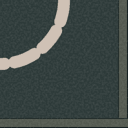
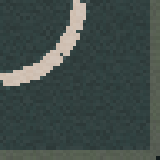
feat(render): wire studio tilesets into the game — rails, crossings, new roads and hydro
Approved studio sprites go live:

- Roads: all 15 variants replaced with the studio set (160 px, measured
  match to the previous art's language — black-top, bold dashes, shoulder
  edges, T-capped dead ends).
- Hydro lines: `power-line-vertical/horizontal` replaced with the studio
  redesign (wood pole billboard, crossarm-attached sagging wires).
- Rails: first-ever rail sprites — 15 connectivity variants under
  `assets/tiles/rails/`, loaded via a `rail` atlas section that reuses the
  road `RoadVariant` bitmask machinery, plus a `pickRailTexture` mirroring
  the road picker. `TileKind.Rail` previously rendered as a flat colour.
- Level crossings: tiles carrying both rail and road (`Rail+roadUnderlay`
  or `Road+railUnderlay`) draw the crossing sprite, oriented by the rail
  axis from rail connectivity.

Verified in the running game (Vite dev + browser automation): placed a
rail line, crossed it with a road — correct variants, seamless joins, and
the crossing tile rendered with the right orientation. `tsc --noEmit`
clean; all 266 tests pass.

diff --git a/app/src/rendering/tileAtlas.ts b/app/src/rendering/tileAtlas.ts
@@ -22,6 +22,8 @@ export type RoadVariant =
 export interface TileTextures {
   tiles: Partial<Record<TileKind, PIXI.Texture>>;
   road: Partial<Record<RoadVariant, PIXI.Texture>>;
+  rail: Partial<Record<RoadVariant, PIXI.Texture>>;
+  railCrossing: Partial<Record<'ns' | 'ew', PIXI.Texture>>;
   powerPlant: Partial<Record<PowerPlantType, PIXI.Texture>>;
   powerLine: Partial<Record<'north' | 'east' | 'south' | 'west', PIXI.Texture>>;
   residentialHouses: PIXI.Texture[];
@@ -62,6 +64,31 @@ const roadTexturePaths: Record<RoadVariant, string> = {
   'end-s':      assetPath('assets/tiles/roads/road-end-s.png'),
   'end-w':      assetPath('assets/tiles/roads/road-end-w.png')
 };
+
+// Rail shares the road set's 15-variant connectivity naming; the two level
+// crossings are picked when a tile carries both rail and road.
+const railTexturePaths: Record<RoadVariant, string> = {
+  'ns':         assetPath('assets/tiles/rails/rail-ns.png'),
+  'ew':         assetPath('assets/tiles/rails/rail-ew.png'),
+  'corner-ne':  assetPath('assets/tiles/rails/rail-corner-ne.png'),
+  'corner-nw':  assetPath('assets/tiles/rails/rail-corner-nw.png'),
+  'corner-se':  assetPath('assets/tiles/rails/rail-corner-se.png'),
+  'corner-sw':  assetPath('assets/tiles/rails/rail-corner-sw.png'),
+  't-nes':      assetPath('assets/tiles/rails/rail-t-nes.png'),
+  't-new':      assetPath('assets/tiles/rails/rail-t-new.png'),
+  't-nsw':      assetPath('assets/tiles/rails/rail-t-nsw.png'),
+  't-esw':      assetPath('assets/tiles/rails/rail-t-esw.png'),
+  'cross':      assetPath('assets/tiles/rails/rail-cross.png'),
+  'end-n':      assetPath('assets/tiles/rails/rail-end-n.png'),
+  'end-e':      assetPath('assets/tiles/rails/rail-end-e.png'),
+  'end-s':      assetPath('assets/tiles/rails/rail-end-s.png'),
+  'end-w':      assetPath('assets/tiles/rails/rail-end-w.png')
+};
+
+const railCrossingTexturePaths = {
+  ns: assetPath('assets/tiles/rails/rail-road-crossing-ns.png'),
+  ew: assetPath('assets/tiles/rails/rail-road-crossing-ew.png')
+} as const;
 
 const powerPlantTexturePaths: Partial<Record<PowerPlantType, string>> = {
   [PowerPlantType.Hydro]: assetPath('assets/tiles/power/power-plant-hydro.png'),
@@ -126,6 +153,20 @@ export async function loadTileTextures(): Promise<TileTextures> {
     })
   );
 
+  const railEntries = await Promise.all(
+    (Object.entries(railTexturePaths) as [RoadVariant, string][]).map(async ([variant, path]) => {
+      const texture = await PIXI.Assets.load<PIXI.Texture>(path);
+      return [variant, texture] as const;
+    })
+  );
+
+  const railCrossingEntries = await Promise.all(
+    (Object.entries(railCrossingTexturePaths) as ['ns' | 'ew', string][]).map(async ([key, path]) => {
+      const texture = await PIXI.Assets.load<PIXI.Texture>(path);
+      return [key, texture] as const;
+    })
+  );
+
   const powerPlantEntries = await Promise.all(
     Object.entries(powerPlantTexturePaths).map(async ([type, path]) => {
       const texture = await PIXI.Assets.load<PIXI.Texture>(path!);
@@ -184,6 +225,8 @@ export async function loadTileTextures(): Promise<TileTextures> {
   return {
     tiles:                  Object.fromEntries(tileEntries),
     road:                   Object.fromEntries(roadEntries),
+    rail:                   Object.fromEntries(railEntries),
+    railCrossing:           Object.fromEntries(railCrossingEntries),
     powerPlant:             Object.fromEntries(powerPlantEntries),
     powerLine:              powerLineTextures,
     residentialHouses,

diff --git a/app/src/rendering/tileRenderUtils.ts b/app/src/rendering/tileRenderUtils.ts
@@ -156,6 +156,17 @@ export function resolveTileSprite(
       }
     }
   }
+  // Level crossing: a tile carrying both rail and road (either order of
+  // construction) draws the crossing sprite, oriented by the rail axis.
+  if ((tile.kind === TileKind.Rail && tile.roadUnderlay) ||
+      (tile.kind === TileKind.Road && tile.railUnderlay)) {
+    const crossingTexture = pickRailCrossingTexture(state, x, y, tileTextures);
+    if (crossingTexture) return { texture: crossingTexture, widthTiles: 1, heightTiles: 1 };
+  }
+  if (tile.kind === TileKind.Rail) {
+    const railTexture = pickRailTexture(state, x, y, tileTextures);
+    if (railTexture) return { texture: railTexture, widthTiles: 1, heightTiles: 1 };
+  }
   if (tile.kind === TileKind.Road) {
     const roadTexture = pickRoadTexture(state, x, y, tileTextures);
     if (roadTexture) return { texture: roadTexture, widthTiles: 1, heightTiles: 1 };
@@ -233,6 +244,35 @@ function roadVariant(n: boolean, e: boolean, s: boolean, w: boolean): RoadVarian
     case 0b0001: return 'end-w';
     default:     return 'cross'; // isolated tile — no neighbours
   }
+}
+
+function connectsToRail(state: GameState, tx: number, ty: number): boolean {
+  const neighbour = getTile(state, tx, ty);
+  return neighbour?.kind === TileKind.Rail || neighbour?.railUnderlay === true;
+}
+
+function railNeighbours(state: GameState, x: number, y: number) {
+  return {
+    n: y > 0 && connectsToRail(state, x, y - 1),
+    e: x < state.width  - 1 && connectsToRail(state, x + 1, y),
+    s: y < state.height - 1 && connectsToRail(state, x, y + 1),
+    w: x > 0 && connectsToRail(state, x - 1, y)
+  };
+}
+
+function pickRailTexture(state: GameState, x: number, y: number, tileTextures: TileTextures): Texture | undefined {
+  const { n, e, s, w } = railNeighbours(state, x, y);
+  // Rail reuses the road set's 15-variant connectivity mapping.
+  return tileTextures.rail[roadVariant(n, e, s, w)];
+}
+
+function pickRailCrossingTexture(state: GameState, x: number, y: number, tileTextures: TileTextures): Texture | undefined {
+  const { n, e, s, w } = railNeighbours(state, x, y);
+  // The crossing sprite's rail runs along one axis; pick it from the rail
+  // connectivity (road fills the other axis), defaulting isolated overlaps
+  // to a north-south track.
+  const axis = (n || s) ? 'ns' : (e || w) ? 'ew' : 'ns';
+  return tileTextures.railCrossing[axis];
 }
 
 function pickPowerLineTexture(state: GameState, x: number, y: number, tileTextures: TileTextures): Texture | undefined {

diff --git a/app/src/rendering/renderer.ts b/app/src/rendering/renderer.ts
@@ -58,6 +58,8 @@ export class MapRenderer {
     tileTextures: TileTextures = {
       tiles: {},
       road: {},
+      rail: {},
+      railCrossing: {},
       powerPlant: {},
       powerLine: {},
       residentialHouses: [],
